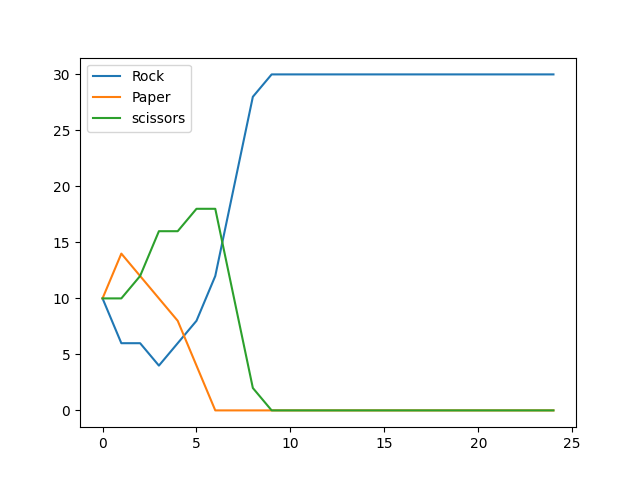
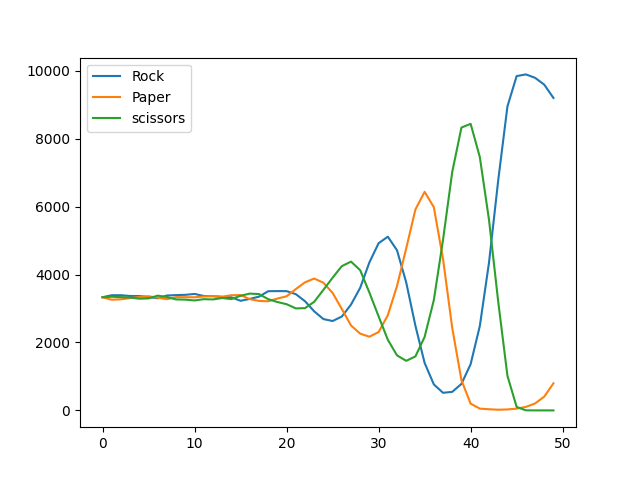
tweaked some settings

diff --git a/SETTINGS.py b/SETTINGS.py
@@ -1,7 +1,7 @@
-Start_people = 30
+Start_people = 10000
 Mutation_factor = 0
-Tree_count = 100
-Days = 25
+Tree_count = 10000
+Days = 50
 path_to_data = "data/table.csv"
 
 ROCK = 0
